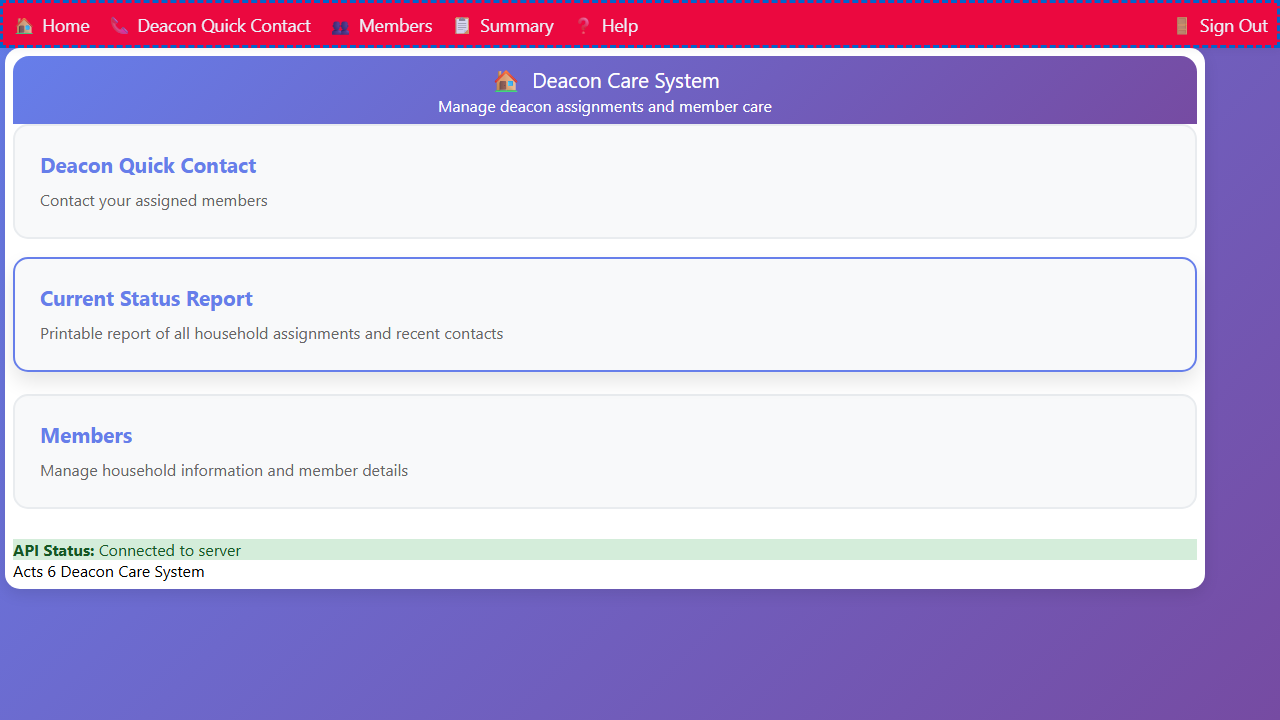
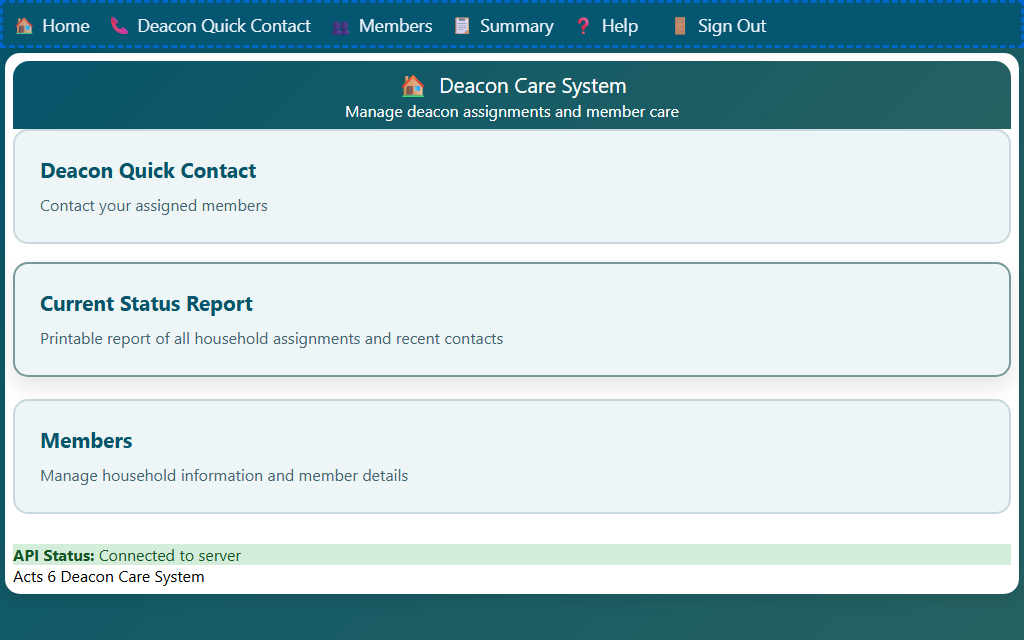
update images to match the new styles. Show mobile views on mobile

diff --git a/test/e2e/screenshots/login.spec.js b/test/e2e/screenshots/login.spec.js
@@ -1,6 +1,6 @@
 import { test, expect } from '@playwright/test';
 import {
-  seedDemoData, loginAsEmail, highlightElement, takeHelpScreenshot, DEMO
+  seedDemoData, loginAsEmail, highlightElement, takeHelpScreenshot, waitForCode, DEMO
 } from './capture-helpers.js';
 
 test.describe('login screenshots', () => {
@@ -17,32 +17,6 @@ test.describe('login screenshots', () => {
     await takeHelpScreenshot(page, 'login-email-form.png');
   });
 
-  test('capture login code email example', async ({ page, request }) => {
-    await seedDemoData(request);
-    // Navigate to login page with mock email submitted state
-    await page.goto('/email-login.html');
-    await page.getByLabel(/email address/i).fill(DEMO.deaconEmail);
-    await page.getByRole('button', { name: /send validation code/i }).click();
-    // Wait for validation form to appear
-    await page.waitForSelector('#validationForm', { state: 'visible', timeout: 5000 }).catch(() => {});
-    // Render a fake "email preview" section via evaluate
-    await page.evaluate(() => {
-      const container = document.querySelector('.container');
-      if (!container) return;
-      const preview = document.createElement('div');
-      preview.style.cssText = 'background:#f8f9fa;border:1px solid #ddd;border-radius:8px;padding:20px;margin:16px 0;font-family:monospace;font-size:0.9em;color:#333;';
-      preview.innerHTML = `
-        <div style="color:#888;margin-bottom:8px;">From: ActSix Deacon Care System &lt;noreply@example.com&gt;</div>
-        <div style="color:#888;margin-bottom:16px;">Subject: Your login code</div>
-        <p>Your validation code is:</p>
-        <div style="font-size:2em;font-weight:bold;letter-spacing:0.2em;color:#667eea;margin:12px 0;">482917</div>
-        <p style="color:#888;font-size:0.85em;">This code expires in 15 minutes.</p>
-      `;
-      container.insertBefore(preview, container.firstChild);
-    });
-    await takeHelpScreenshot(page, 'login-code-email.png');
-  });
-
   test('capture login code entry form', async ({ page, request }) => {
     await seedDemoData(request);
     await page.goto('/email-login.html');
@@ -54,6 +28,8 @@ test.describe('login screenshots', () => {
     const validateButton = page.getByRole('button', { name: /validate code/i });
     await expect(validationCodeField).toBeVisible();
     await expect(validateButton).toBeVisible();
+    const code = await waitForCode(DEMO.deaconEmail);
+    await validationCodeField.fill(code);
     await highlightElement(page, validationCodeField, 'blue');
     await highlightElement(page, validateButton, 'orange');
     await takeHelpScreenshot(page, 'login-code-form.png');

diff --git a/site/help-page.js b/site/help-page.js
@@ -61,6 +61,69 @@ function getBehaviorsForRole(config, pageKey, role) {
   });
 }
 
+function shouldUseMobileHelpImages() {
+  const mobileViewport = window.matchMedia('(max-width: 900px)').matches;
+  const coarsePointer = window.matchMedia('(pointer: coarse)').matches;
+  return mobileViewport || coarsePointer;
+}
+
+function withMobileVariant(src) {
+  if (!/\.png(\?.*)?$/i.test(src)) return src;
+  if (/\.mobile\.png(\?.*)?$/i.test(src)) return src;
+  return src.replace(/\.png(\?.*)?$/i, '.mobile.png$1');
+}
+
+function applyHelpImageVariant(contentEl) {
+  const useMobile = shouldUseMobileHelpImages();
+
+  contentEl.querySelectorAll('img.help-screenshot').forEach(img => {
+    const baseSrc = img.dataset.helpImageBase || img.getAttribute('src') || '';
+    if (!baseSrc) return;
+
+    img.dataset.helpImageBase = baseSrc;
+
+    const preferredSrc = useMobile ? withMobileVariant(baseSrc) : baseSrc;
+    const fallbackSrc = useMobile ? baseSrc : withMobileVariant(baseSrc);
+
+    img.dataset.helpPreferredSrc = preferredSrc;
+    img.dataset.helpFallbackSrc = fallbackSrc;
+
+    if (!img.dataset.helpFallbackBound) {
+      img.addEventListener('error', () => {
+        const currentSrc = img.getAttribute('src') || '';
+        const preferred = img.dataset.helpPreferredSrc || '';
+        const fallback = img.dataset.helpFallbackSrc || '';
+        const base = img.dataset.helpImageBase || '';
+
+        if (currentSrc === preferred && fallback && fallback !== preferred) {
+          img.setAttribute('src', fallback);
+          return;
+        }
+
+        if (currentSrc === fallback && base && base !== fallback) {
+          img.setAttribute('src', base);
+        }
+      });
+      img.dataset.helpFallbackBound = '1';
+    }
+
+    if (img.getAttribute('src') !== preferredSrc) {
+      img.setAttribute('src', preferredSrc);
+    }
+  });
+}
+
+let helpImageResizeTimer = null;
+
+function bindHelpImageVariantUpdates(contentEl) {
+  window.addEventListener('resize', () => {
+    if (helpImageResizeTimer) {
+      clearTimeout(helpImageResizeTimer);
+    }
+    helpImageResizeTimer = setTimeout(() => applyHelpImageVariant(contentEl), 150);
+  });
+}
+
 async function loadHelpContent() {
   const contentEl = document.getElementById('help-content');
 
@@ -130,6 +193,9 @@ async function loadHelpContent() {
     img.classList.add('help-screenshot');
     if (!img.alt) img.alt = 'Screenshot';
   });
+
+  applyHelpImageVariant(contentEl);
+  bindHelpImageVariantUpdates(contentEl);
 }
 
 loadHelpContent();

diff --git a/test/e2e/screenshots/summary-quick-assign.spec.js b/test/e2e/screenshots/summary-quick-assign.spec.js
@@ -59,6 +59,20 @@ function buildUniqueSummaryRows() {
   ];
 }
 
+async function setWideSummaryDesktopViewport(page) {
+  const viewport = page.viewportSize();
+  if (viewport && viewport.width > 700) {
+    await page.setViewportSize({ width: 1366, height: 768 });
+  }
+}
+
+async function setDesktopOnlyAssignViewport(page) {
+  const viewport = page.viewportSize();
+  if (viewport && viewport.width > 700) {
+    await page.setViewportSize({ width: 1000, height: 420 });
+  }
+}
+
 test.describe('contact-summary and quick-contact screenshots', () => {
   test('capture contact summary table', async ({ page, request }) => {
     await seedDemoData(request);
@@ -73,6 +87,7 @@ test.describe('contact-summary and quick-contact screenshots', () => {
       });
     });
 
+    await setWideSummaryDesktopViewport(page);
     await page.goto('/contact-summary.html');
     await page.waitForLoadState('networkidle');
     await takeHelpScreenshot(page, 'contact-summary-table.png');
@@ -91,6 +106,7 @@ test.describe('contact-summary and quick-contact screenshots', () => {
       });
     });
 
+    await setWideSummaryDesktopViewport(page);
     await page.goto('/contact-summary.html');
     await page.waitForLoadState('networkidle');
     const assignmentFilter = page.locator('#assignmentFilter');
@@ -136,10 +152,9 @@ test.describe('contact-summary and quick-contact screenshots', () => {
       });
     });
 
+    await setDesktopOnlyAssignViewport(page);
     await page.goto(`/assign-deacons.html?householdId=${ids.memberHHId}`);
     await page.waitForLoadState('networkidle');
-
-    await page.setViewportSize({ width: 1000, height: 360 });
 
     const deaconList = page.locator('#deaconList');
     await expect(deaconList).toBeVisible();

diff --git a/test/e2e/screenshots/capture-helpers.js b/test/e2e/screenshots/capture-helpers.js
@@ -214,7 +214,7 @@ export async function loginAsEmail(page, email) {
   await page.waitForURL(/\/$/, { timeout: 10_000 });
 }
 
-async function waitForCode(email, timeoutMs = 10_000) {
+export async function waitForCode(email, timeoutMs = 10_000) {
   const start = Date.now();
   while (Date.now() - start < timeoutMs) {
     const code = findLatestCodeForEmail(email);
@@ -263,7 +263,12 @@ export async function highlightElement(page, locator, color = 'orange') {
  * Take a help screenshot and save it to site/help/images/<filename>.
  */
 export async function takeHelpScreenshot(page, filename) {
-  const outPath = path.join(imagesDir, filename);
+  const viewport = page.viewportSize();
+  const isMobileViewport = Boolean(viewport && viewport.width <= 600);
+  const outputFilename = isMobileViewport
+    ? filename.replace(/\.png$/i, '.mobile.png')
+    : filename;
+  const outPath = path.join(imagesDir, outputFilename);
   await page.screenshot({ path: outPath, fullPage: false });
-  console.log(`  📸 Saved ${filename}`);
+  console.log(`  📸 Saved ${outputFilename}`);
 }

diff --git a/test/e2e/playwright.screenshots.config.js b/test/e2e/playwright.screenshots.config.js
@@ -19,7 +19,7 @@ export default defineConfig({
   use: {
     baseURL,
     headless: true,
-    viewport: { width: 1280, height: 800 },
+    viewport: { width: 1024, height: 640 },
     screenshot: 'off',
   },
   webServer: {
@@ -45,8 +45,18 @@ export default defineConfig({
   },
   projects: [
     {
-      name: 'chromium',
-      use: { ...devices['Desktop Chrome'] },
+      name: 'chromium-desktop',
+      use: {
+        ...devices['Desktop Chrome'],
+        viewport: { width: 1024, height: 640 },
+      },
+    },
+    {
+      name: 'chromium-mobile',
+      use: {
+        ...devices['iPhone 15 Pro Max'],
+        browserName: 'chromium',
+      },
     },
   ],
 });

diff --git a/site/help/CAPTURE_GUIDE.md b/site/help/CAPTURE_GUIDE.md
@@ -3,6 +3,9 @@
 All screenshots are generated by Playwright using fake deterministic demo personas.
 Run `npm run help:screenshots` after updating screenshot specs.
 
+Desktop captures use the canonical filenames listed below (for example `members-list.png`).
+Mobile captures use the same base filename with a `.mobile` suffix (for example `members-list.mobile.png`).
+
 ## Complete-List Workflow
 
 Use this when asked to regenerate all help screenshots.
@@ -14,21 +17,20 @@ Use this when asked to regenerate all help screenshots.
 ### Preflight/Postflight Inventory Checks
 
 ```bash
-node -e "const fs=require('fs');const guide=fs.readFileSync('site/help/CAPTURE_GUIDE.md','utf8');const expected=[...new Set([...guide.matchAll(/\|\s*([a-z0-9-]+\.png)\s*\|/g)].map(m=>m[1]))].sort();const assets=fs.readdirSync('site/help/images').filter(f=>f.endsWith('.png')).sort();const missing=expected.filter(x=>!assets.includes(x));const orphan=assets.filter(x=>!expected.includes(x));console.log('expected',expected.length);console.log('assets',assets.length);console.log('missing',missing.length?missing.join(', '):'none');console.log('orphan',orphan.length?orphan.join(', '):'none');"
+node -e "const fs=require('fs');const guide=fs.readFileSync('site/help/CAPTURE_GUIDE.md','utf8');const expectedDesktop=[...new Set([...guide.matchAll(/\|\s*([a-z0-9-]+\.png)\s*\|/g)].map(m=>m[1]))].sort();const expectedMobile=expectedDesktop.map(x=>x.replace(/\.png$/,'.mobile.png'));const expectedAll=[...expectedDesktop,...expectedMobile].sort();const assets=fs.readdirSync('site/help/images').filter(f=>f.endsWith('.png')).sort();const missingDesktop=expectedDesktop.filter(x=>!assets.includes(x));const missingMobile=expectedMobile.filter(x=>!assets.includes(x));const orphan=assets.filter(x=>!expectedAll.includes(x));console.log('expected-desktop',expectedDesktop.length);console.log('expected-mobile',expectedMobile.length);console.log('assets',assets.length);console.log('missing-desktop',missingDesktop.length?missingDesktop.join(', '):'none');console.log('missing-mobile',missingMobile.length?missingMobile.join(', '):'none');console.log('orphan',orphan.length?orphan.join(', '):'none');"
 ```
 
 ```bash
 node -e "const fs=require('fs');const path=require('path');const dir='site/help/behaviors';const refs=new Set();for(const f of fs.readdirSync(dir).filter(f=>f.endsWith('.md'))){const text=fs.readFileSync(path.join(dir,f),'utf8');for(const m of text.matchAll(/\.\.\/images\/([a-z0-9-]+\.png)/g)){refs.add(m[1]);}}const guide=fs.readFileSync('site/help/CAPTURE_GUIDE.md','utf8');const expected=[...new Set([...guide.matchAll(/\|\s*([a-z0-9-]+\.png)\s*\|/g)].map(m=>m[1]))];const missingInBeh=expected.filter(x=>!refs.has(x));const extraInBeh=[...refs].filter(x=>!expected.includes(x));console.log('guide expected',expected.length);console.log('behavior refs',refs.size);console.log('missing-in-behaviors',missingInBeh.length?missingInBeh.join(', '):'none');console.log('extra-in-behaviors',extraInBeh.length?extraInBeh.join(', '):'none');"
 ```
 
-Do not finish capture work if any output category is non-empty (`missing`, `orphan`, `missing-in-behaviors`, `extra-in-behaviors`).
+Do not finish capture work if any output category is non-empty (`missing-desktop`, `missing-mobile`, `orphan`, `missing-in-behaviors`, `extra-in-behaviors`).
 
 ## Canonical Screenshot List
 
 | Filename | Spec File | Page/State | Highlight |
 |---|---|---|---|
 | login-email-form.png | test/e2e/screenshots/login.spec.js | Login page, email form | Email field + send button |
-| login-code-email.png | test/e2e/screenshots/login.spec.js | Login page with mock code email preview | None |
 | login-code-form.png | test/e2e/screenshots/login.spec.js | Login page code entry form | Code field + validate button |
 | index-home-cards.png | test/e2e/screenshots/index.spec.js | Home page cards | None |
 | index-nav-bar.png | test/e2e/screenshots/index.spec.js | Home page with top nav | Nav bar |

diff --git a/site/help/behaviors/login.md b/site/help/behaviors/login.md
@@ -28,8 +28,6 @@ Check your inbox for an email from the Deacon Care System. It looks like this:
 
 The code is a **6-digit number**. Copy or note it down.
 
-![Example validation code email](../images/login-code-email.png)
-
 ### Step 3 — Enter the code
 
 1. Return to the login page (it now shows the **Validation code** field).
